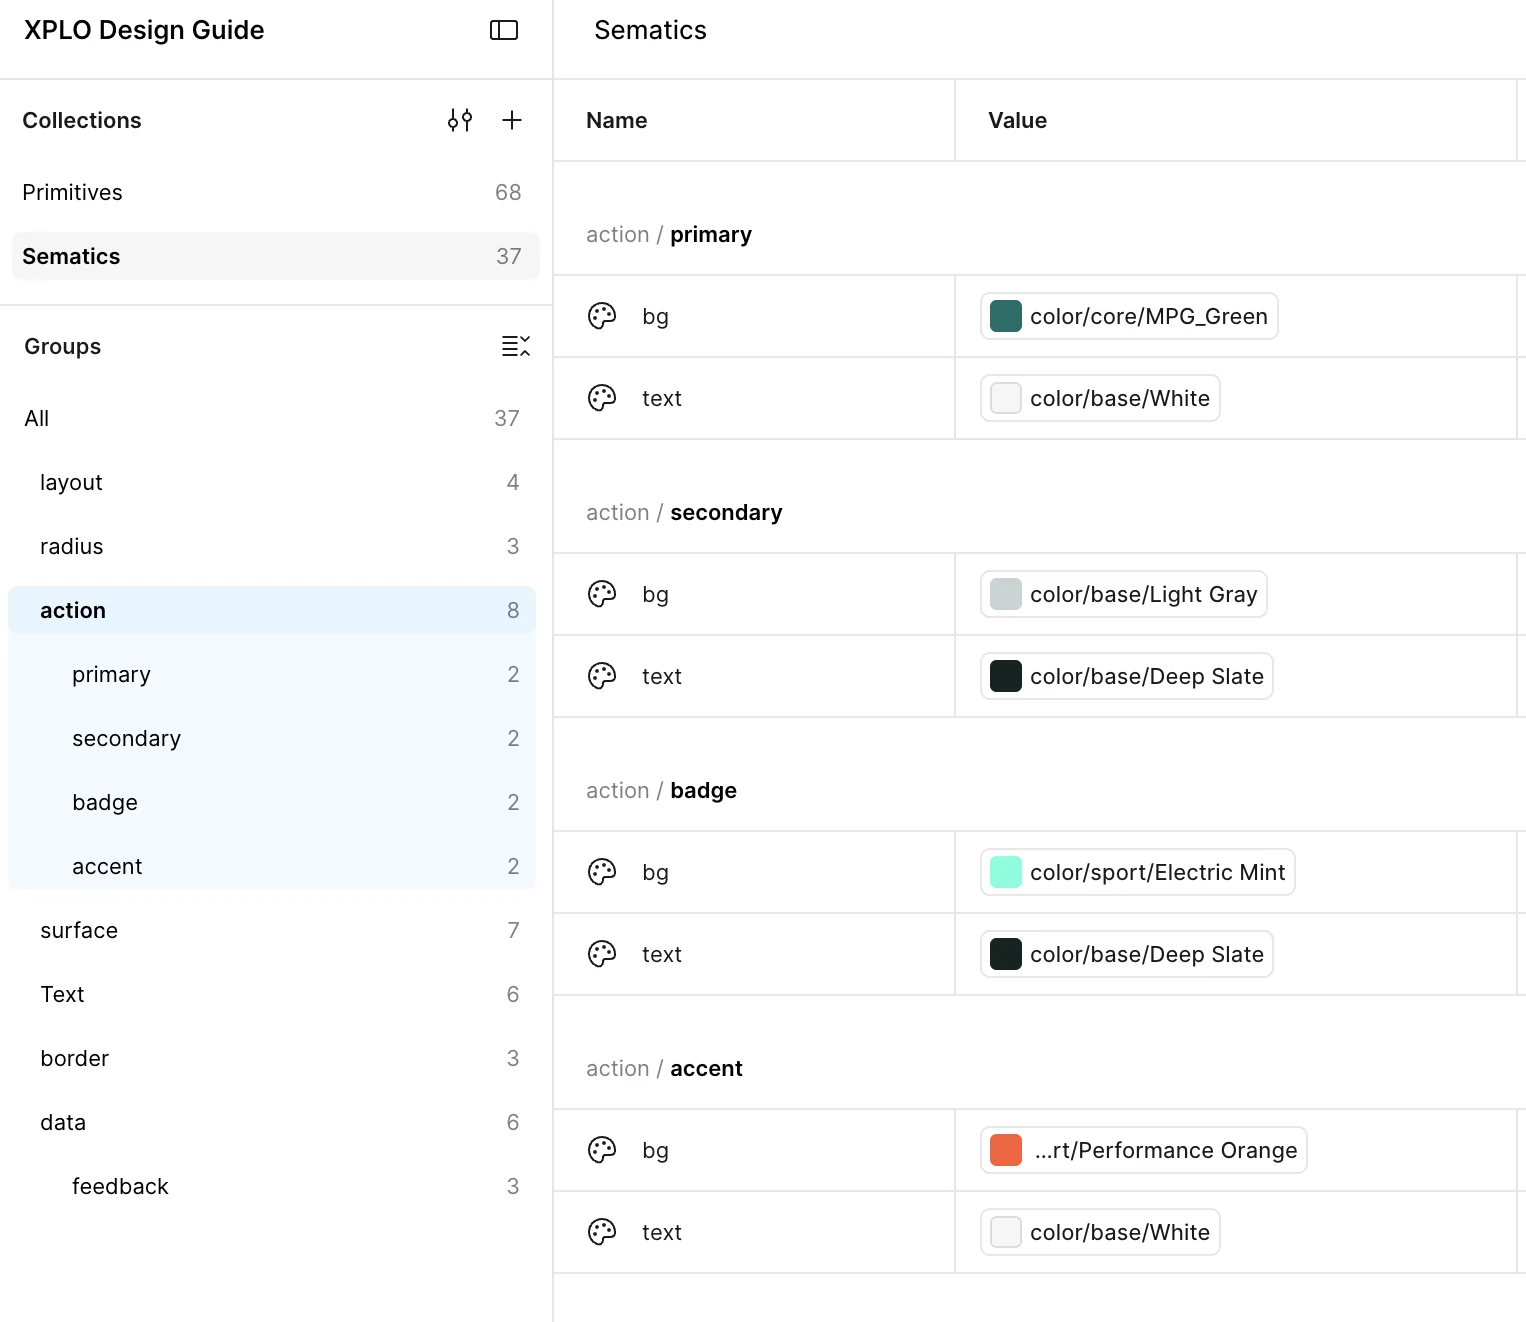
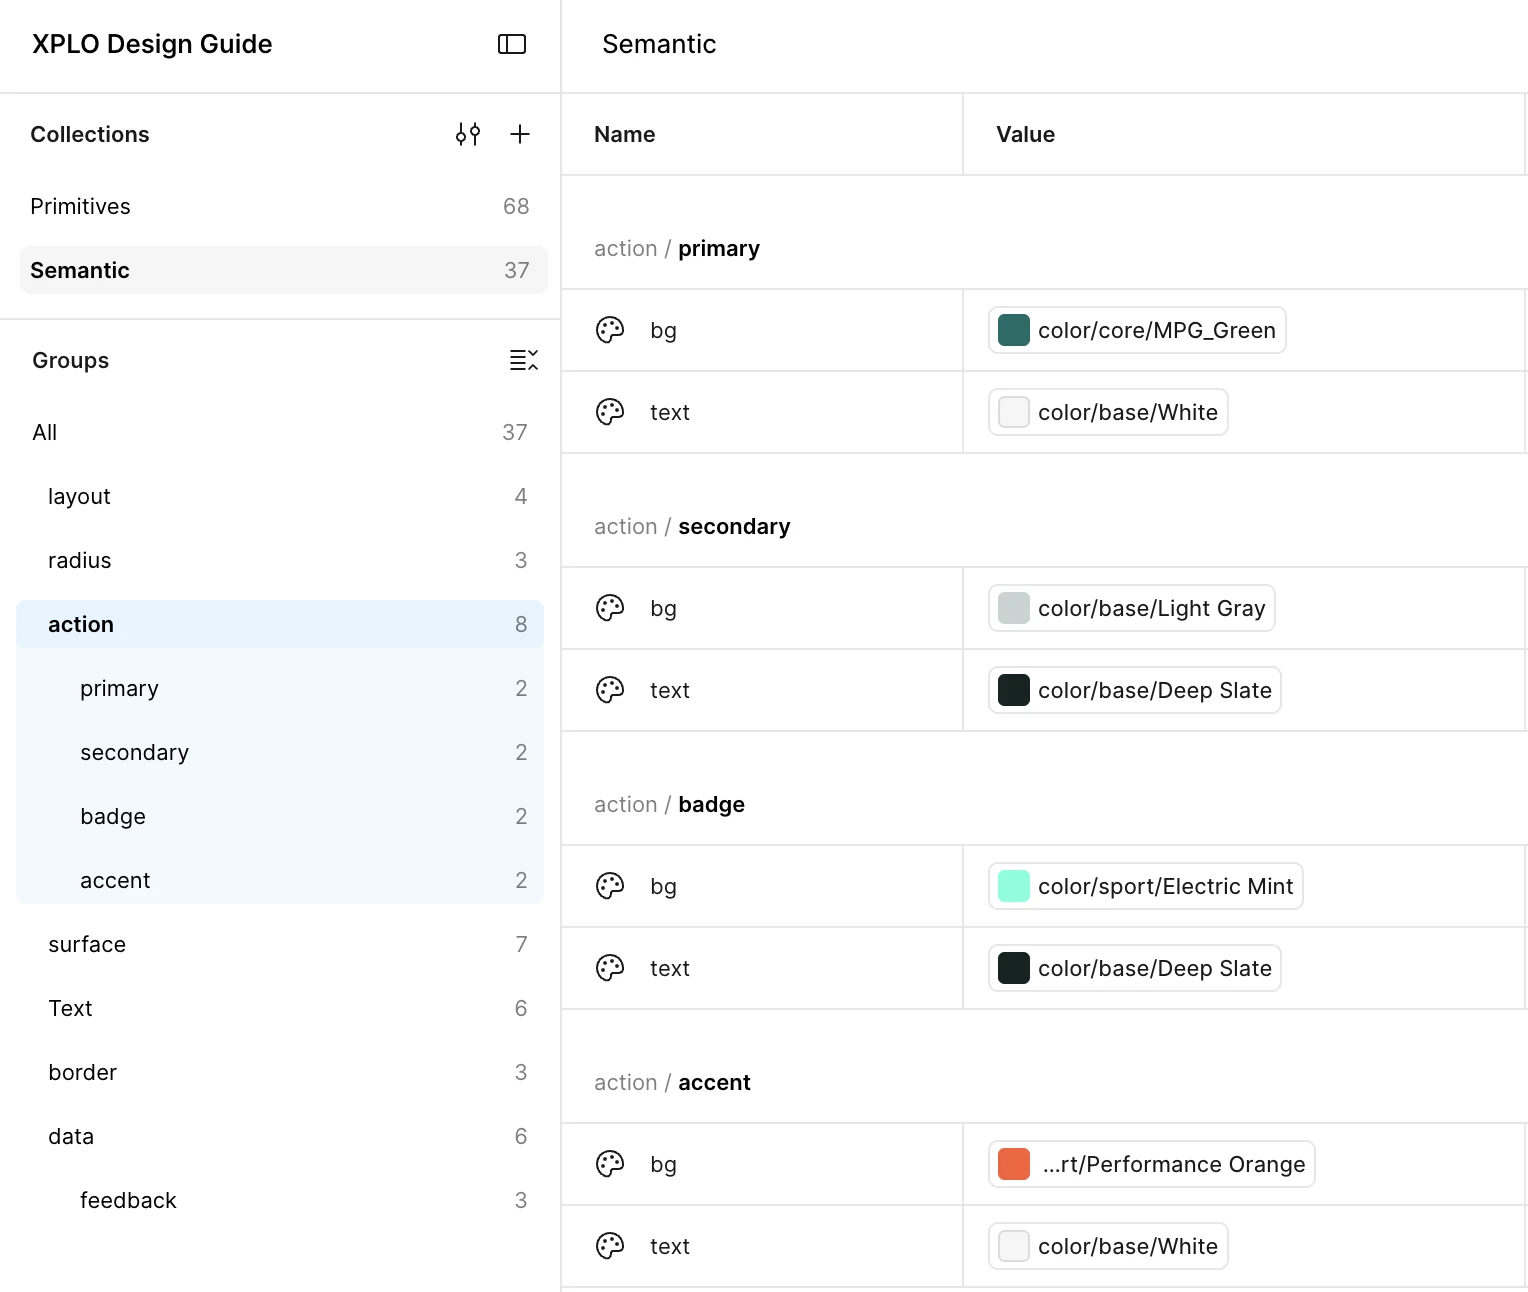
Preview: judo variables screen with corrected collection name
Claude-Session: https://claude.ai/code/session_01UNaTqjQgLxXjRUjvCSfCVh

diff --git a/mpi-judo/index.html b/mpi-judo/index.html
@@ -197,7 +197,7 @@
       </figure>
 
       <figure class="figure figure--narrow">
-        <a class="figure__link" href="images/variables.webp"><img src="images/variables.webp" width="1526" height="1322" loading="lazy" alt="Figma variables of the XPLO Design Guide: collections Primitives (68) and Semantics (37). The action group shows primary, secondary, badge and accent, each with bg and text pointing to primitives such as color/core/MPG_Green, color/base/Light Gray, color/sport/Electric Mint and color/sport/Performance Orange."></a>
+        <a class="figure__link" href="images/variables.webp"><img src="images/variables.webp" width="1528" height="1292" loading="lazy" alt="Figma variables of the XPLO Design Guide: collections Primitives (68) and Semantic (37). The action group shows primary, secondary, badge and accent, each with bg and text pointing to primitives such as color/core/MPG_Green, color/base/Light Gray, color/sport/Electric Mint and color/sport/Performance Orange."></a>
         <figcaption class="text-body-s"><b>Variables.</b> 68 primitives and 37 semantic tokens. Every semantic token points to a primitive, for example action/primary/bg to the MPG green.</figcaption>
       </figure>
 
